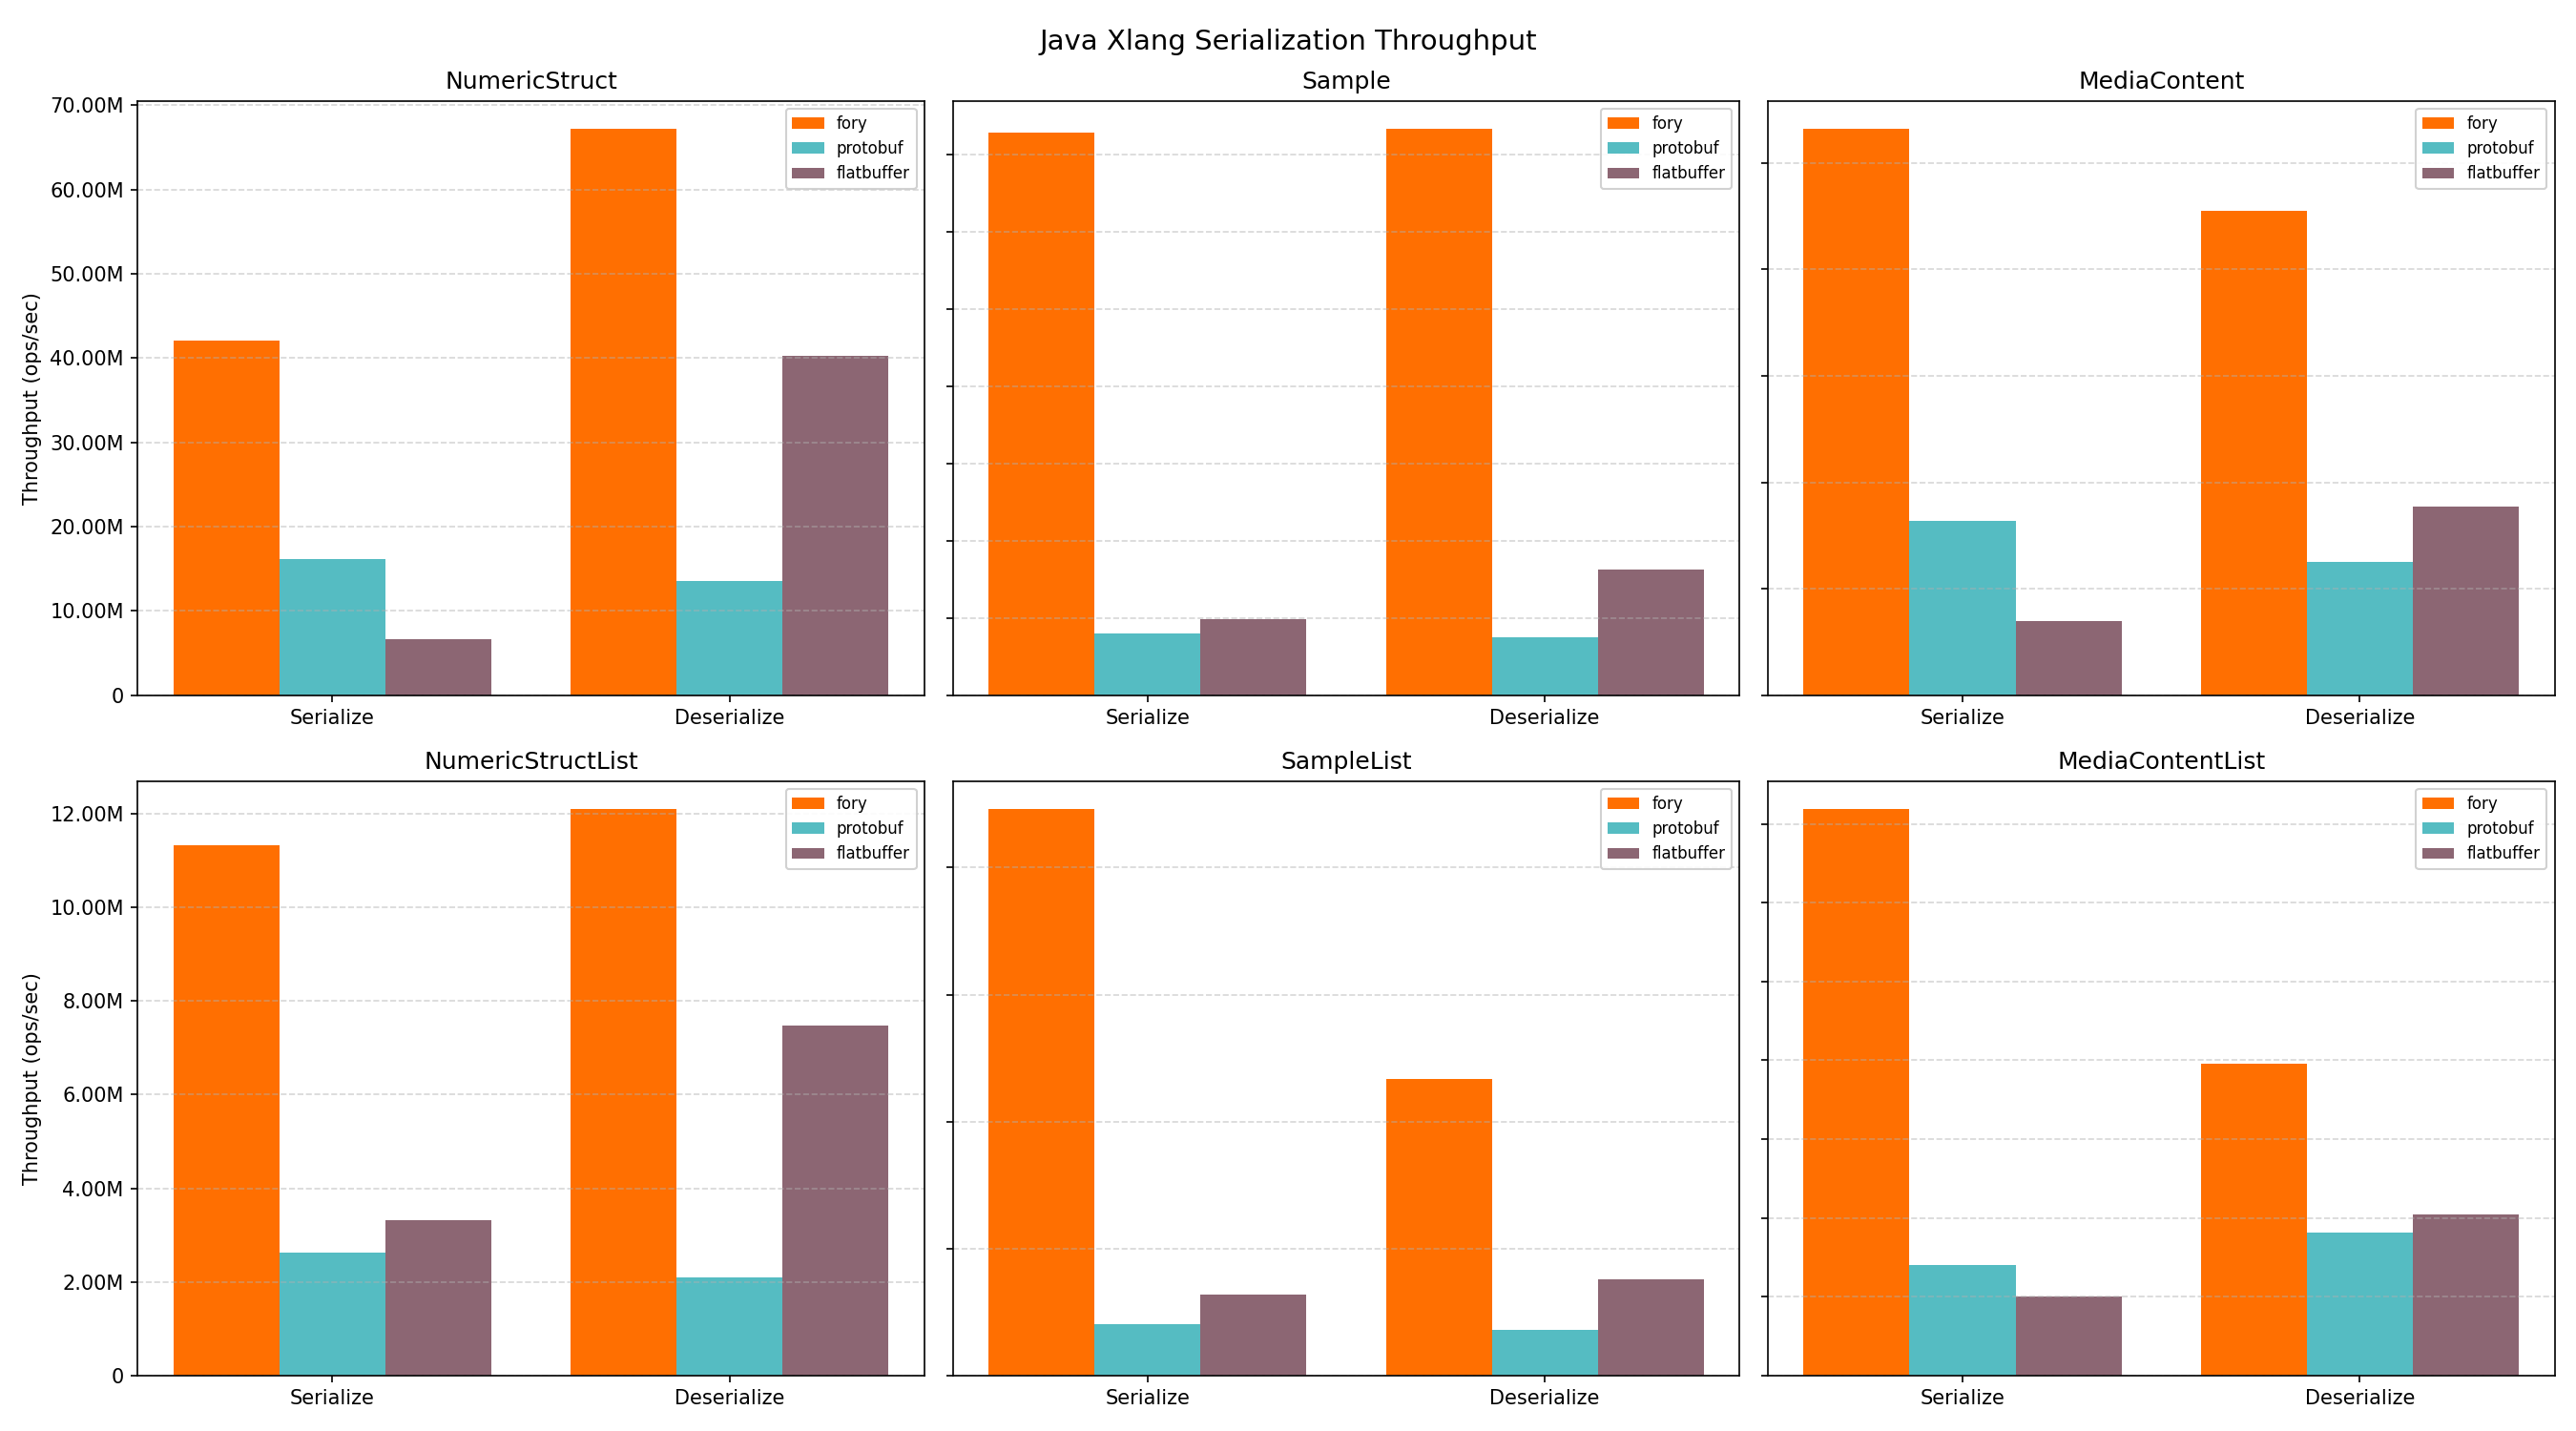
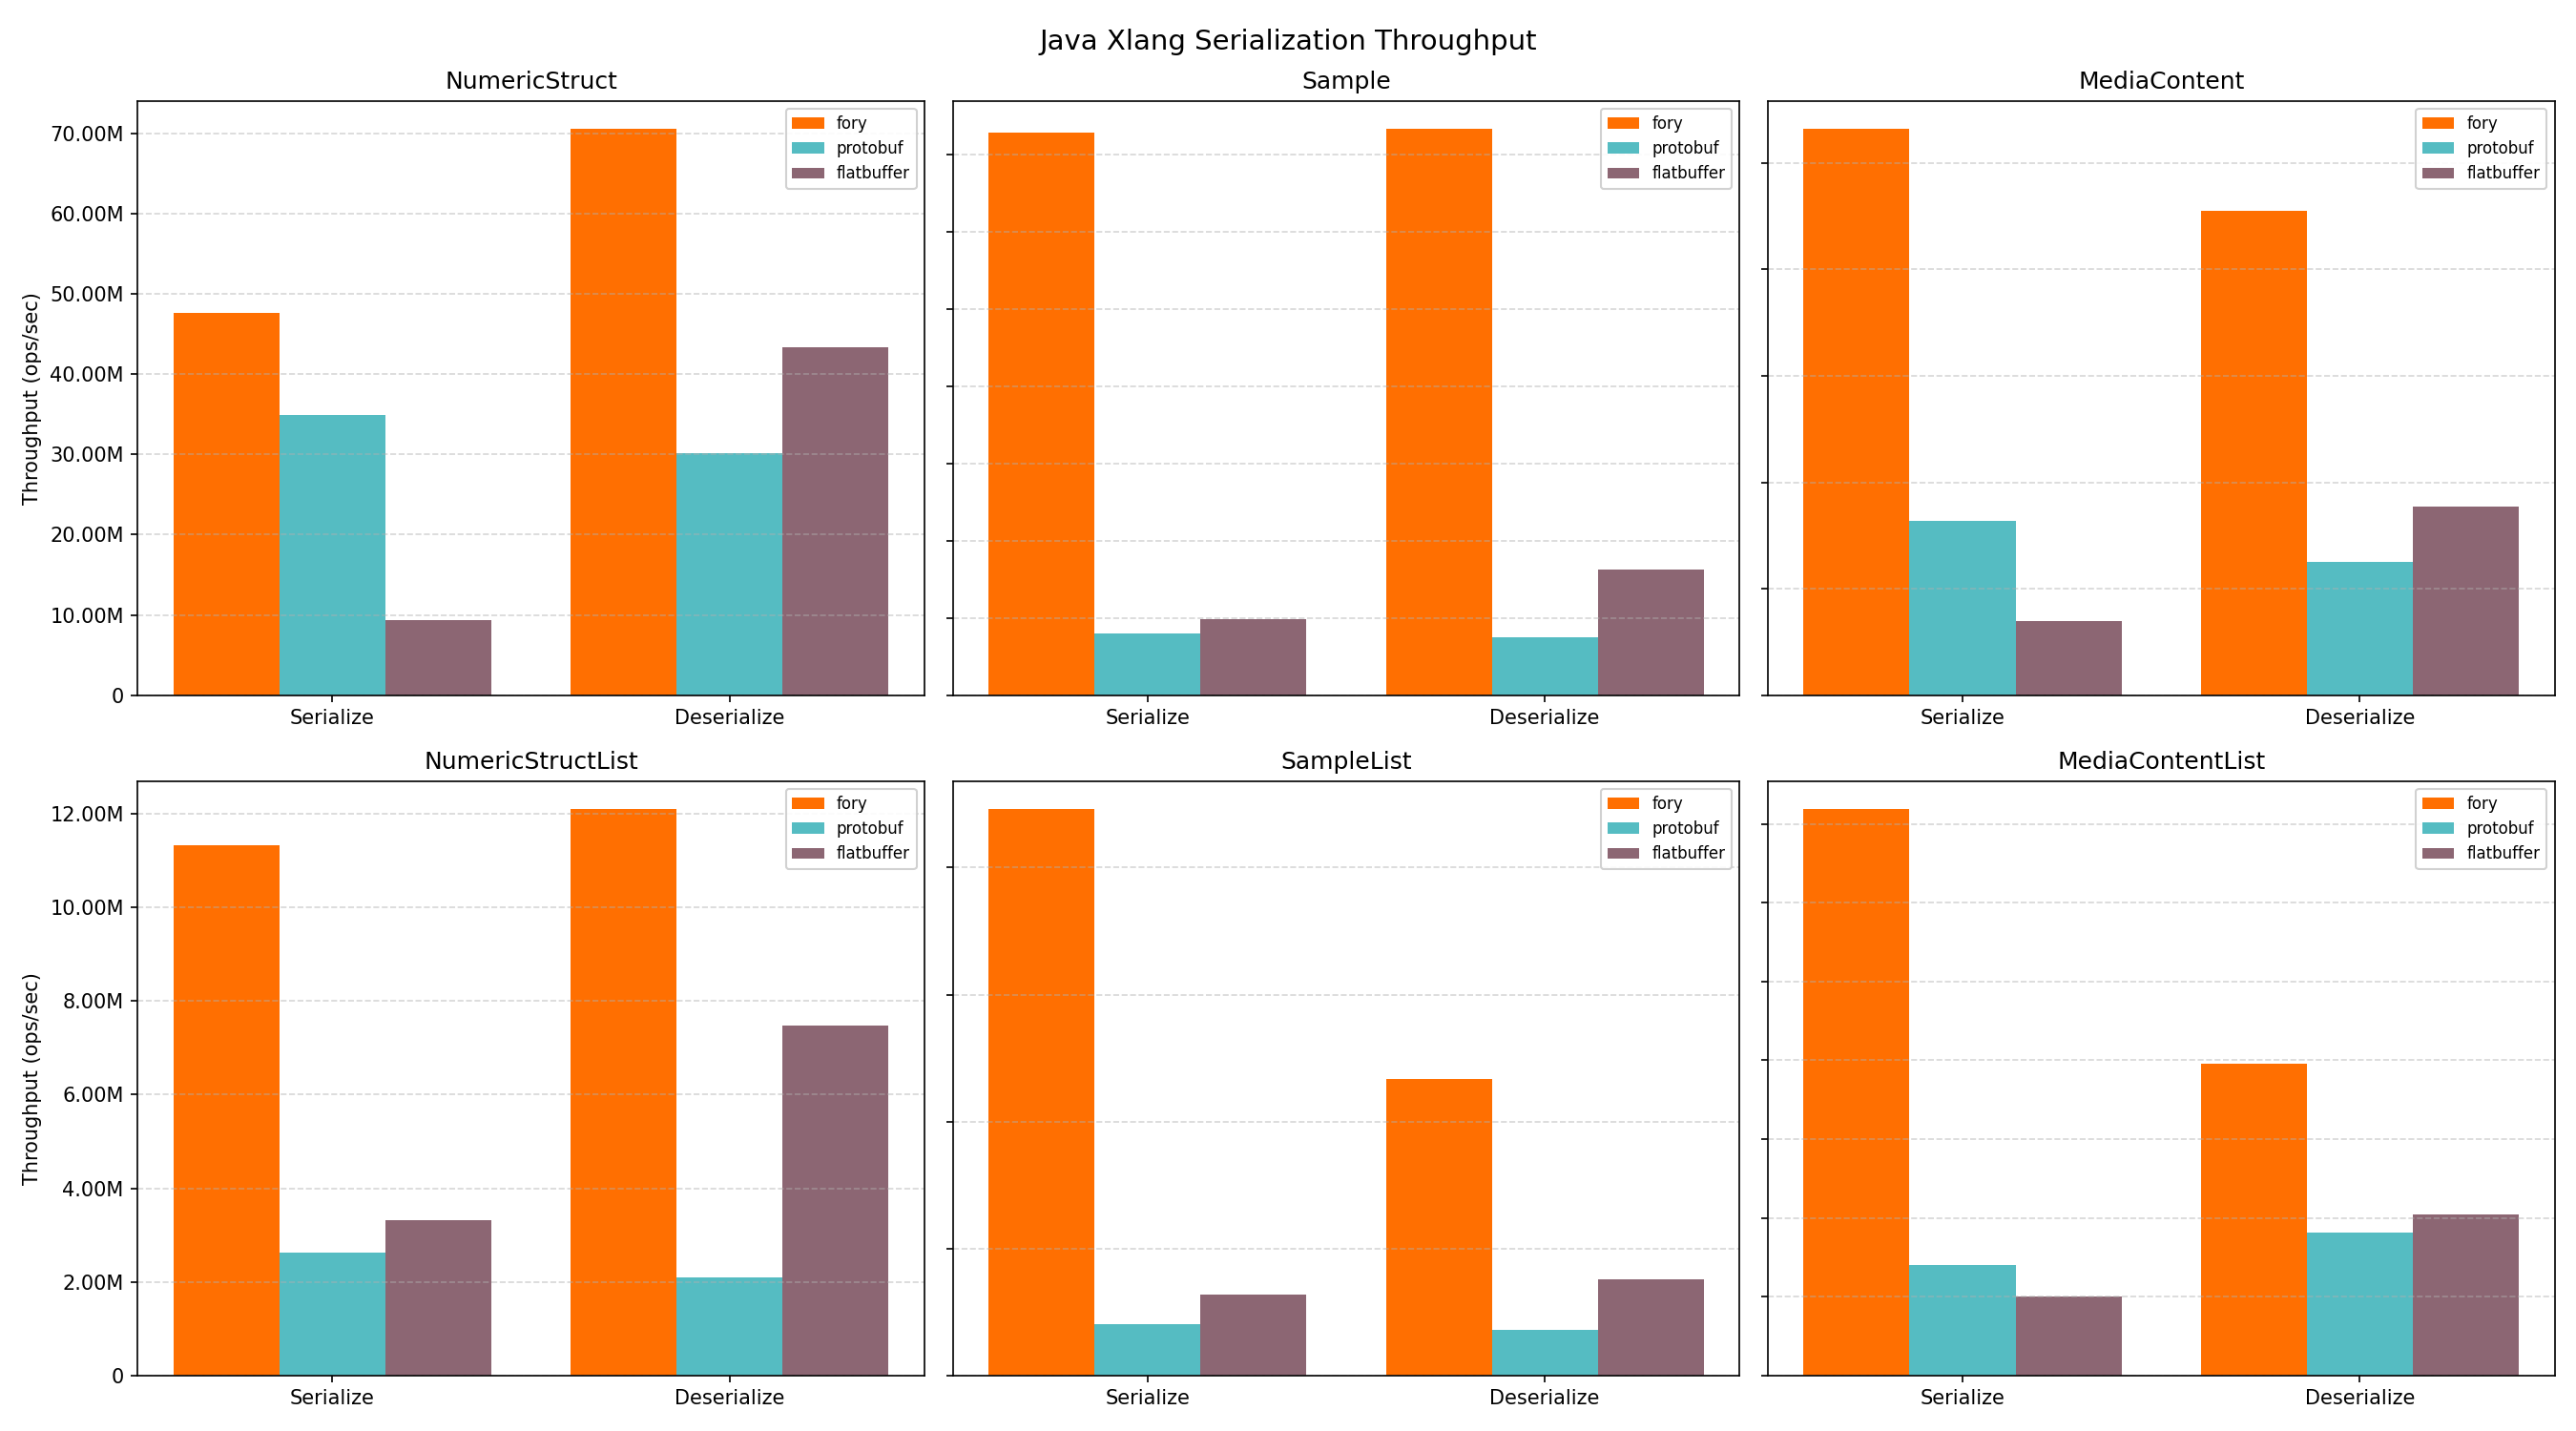
bench: use fixed protobuf numeric struct

diff --git a/benchmarks/python/benchmark.py b/benchmarks/python/benchmark.py
@@ -224,9 +224,15 @@ def create_sample() -> Sample:
         char_value_boxed=ord("$"),
         boolean_value_boxed=False,
         int_array=int32_array([-1234, -123, -12, -1, 0, 1, 12, 123, 1234]),
-        long_array=int64_array([-123400, -12300, -1200, -100, 0, 100, 1200, 12300, 123400]),
-        float_array=float32_array([-12.34, -12.3, -12.0, -1.0, 0.0, 1.0, 12.0, 12.3, 12.34]),
-        double_array=float64_array([-1.234, -1.23, -12.0, -1.0, 0.0, 1.0, 12.0, 1.23, 1.234]),
+        long_array=int64_array(
+            [-123400, -12300, -1200, -100, 0, 100, 1200, 12300, 123400]
+        ),
+        float_array=float32_array(
+            [-12.34, -12.3, -12.0, -1.0, 0.0, 1.0, 12.0, 12.3, 12.34]
+        ),
+        double_array=float64_array(
+            [-1.234, -1.23, -12.0, -1.0, 0.0, 1.0, 12.0, 1.23, 1.234]
+        ),
         short_array=int32_array([-1234, -123, -12, -1, 0, 1, 12, 123, 1234]),
         char_array=int32_array([ord(c) for c in "asdfASDF"]),
         boolean_array=bool_array([True, False, False, True]),
@@ -276,7 +282,9 @@ def create_media_content() -> MediaContent:
 
 
 def create_numeric_struct_list() -> NumericStructList:
-    return NumericStructList(struct_list=[create_numeric_struct() for _ in range(LIST_SIZE)])
+    return NumericStructList(
+        struct_list=[create_numeric_struct() for _ in range(LIST_SIZE)]
+    )
 
 
 def create_sample_list() -> SampleList:
@@ -284,7 +292,9 @@ def create_sample_list() -> SampleList:
 
 
 def create_media_content_list() -> MediaContentList:
-    return MediaContentList(media_content_list=[create_media_content() for _ in range(LIST_SIZE)])
+    return MediaContentList(
+        media_content_list=[create_media_content() for _ in range(LIST_SIZE)]
+    )
 
 
 def create_benchmark_data() -> Dict[str, Any]:
@@ -301,7 +311,9 @@ def create_benchmark_data() -> Dict[str, Any]:
 def load_bench_pb2(proto_dir: Path):
     bench_pb2_path = proto_dir / "bench_pb2.py"
     if not bench_pb2_path.exists():
-        raise FileNotFoundError(f"{bench_pb2_path} does not exist. Run benchmarks/python/run.sh first to generate protobuf bindings.")
+        raise FileNotFoundError(
+            f"{bench_pb2_path} does not exist. Run benchmarks/python/run.sh first to generate protobuf bindings."
+        )
     proto_dir_abs = str(proto_dir.resolve())
     if proto_dir_abs not in sys.path:
         sys.path.insert(0, proto_dir_abs)
@@ -479,7 +491,9 @@ def to_pb_numeric_struct_list(bench_pb2, obj: NumericStructList):
 
 
 def from_pb_numeric_struct_list(pb_obj) -> NumericStructList:
-    return NumericStructList(struct_list=[from_pb_struct(item) for item in pb_obj.struct_list])
+    return NumericStructList(
+        struct_list=[from_pb_struct(item) for item in pb_obj.struct_list]
+    )
 
 
 def to_pb_samplelist(bench_pb2, obj: SampleList):
@@ -501,14 +515,22 @@ def to_pb_mediacontentlist(bench_pb2, obj: MediaContentList):
 
 
 def from_pb_mediacontentlist(pb_obj) -> MediaContentList:
-    return MediaContentList(media_content_list=[from_pb_mediacontent(item) for item in pb_obj.media_content_list])
+    return MediaContentList(
+        media_content_list=[
+            from_pb_mediacontent(item) for item in pb_obj.media_content_list
+        ]
+    )
 
 
 PROTO_CONVERTERS = {
     "struct": (to_pb_struct, from_pb_struct, "NumericStruct"),
     "sample": (to_pb_sample, from_pb_sample, "Sample"),
     "mediacontent": (to_pb_mediacontent, from_pb_mediacontent, "MediaContent"),
-    "structlist": (to_pb_numeric_struct_list, from_pb_numeric_struct_list, "NumericStructList"),
+    "structlist": (
+        to_pb_numeric_struct_list,
+        from_pb_numeric_struct_list,
+        "NumericStructList",
+    ),
     "samplelist": (to_pb_samplelist, from_pb_samplelist, "SampleList"),
     "mediacontentlist": (
         to_pb_mediacontentlist,
@@ -618,7 +640,9 @@ def build_case(
     if serializer == "pickle":
         if operation == "serialize":
             return pickle_serialize, (obj,)
-        return pickle_deserialize, (pickle.dumps(obj, protocol=pickle.HIGHEST_PROTOCOL),)
+        return pickle_deserialize, (
+            pickle.dumps(obj, protocol=pickle.HIGHEST_PROTOCOL),
+        )
 
     if serializer == "protobuf":
         if operation == "serialize":
@@ -643,7 +667,9 @@ def calculate_serialized_sizes(
         datatype_sizes: Dict[str, int] = {}
 
         datatype_sizes["fory"] = len(fory.serialize(obj))
-        datatype_sizes["pickle"] = len(pickle.dumps(obj, protocol=pickle.HIGHEST_PROTOCOL))
+        datatype_sizes["pickle"] = len(
+            pickle.dumps(obj, protocol=pickle.HIGHEST_PROTOCOL)
+        )
 
         to_pb, _, _ = PROTO_CONVERTERS[datatype]
         datatype_sizes["protobuf"] = len(to_pb(bench_pb2, obj).SerializeToString())
@@ -658,7 +684,9 @@ def parse_csv_list(value: str, allowed: Iterable[str], default: List[str]) -> Li
     selected = [item.strip().lower() for item in value.split(",") if item.strip()]
     invalid = [item for item in selected if item not in allowed]
     if invalid:
-        raise ValueError(f"Invalid values: {', '.join(invalid)}. Allowed: {', '.join(sorted(allowed))}")
+        raise ValueError(
+            f"Invalid values: {', '.join(invalid)}. Allowed: {', '.join(sorted(allowed))}"
+        )
     ordered = [item for item in default if item in selected]
     return ordered
 
@@ -676,7 +704,9 @@ def benchmark_number(base_number: int, datatype: str) -> int:
 
 
 def parse_args() -> argparse.Namespace:
-    parser = argparse.ArgumentParser(description="Comprehensive Fory/Pickle/Protobuf benchmark for Python")
+    parser = argparse.ArgumentParser(
+        description="Comprehensive Fory/Pickle/Protobuf benchmark for Python"
+    )
     parser.add_argument(
         "--operation",
         default="all",
@@ -737,14 +767,22 @@ def main() -> int:
     bench_pb2 = load_bench_pb2(proto_dir)
 
     selected_datatypes = parse_csv_list(args.data, DATA_TYPE_ORDER, DATA_TYPE_ORDER)
-    selected_serializers = parse_csv_list(args.serializer, SERIALIZER_ORDER, SERIALIZER_ORDER)
-    selected_operations = OPERATION_ORDER if args.operation == "all" else [args.operation]
+    selected_serializers = parse_csv_list(
+        args.serializer, SERIALIZER_ORDER, SERIALIZER_ORDER
+    )
+    selected_operations = (
+        OPERATION_ORDER if args.operation == "all" else [args.operation]
+    )
 
     benchmark_data = create_benchmark_data()
     fory = build_fory()
 
-    print(f"Benchmarking {len(selected_datatypes)} data type(s), {len(selected_serializers)} serializer(s), {len(selected_operations)} operation(s)")
-    print(f"Warmup={args.warmup}, Iterations={args.iterations}, Repeat={args.repeat}, Number={args.number}")
+    print(
+        f"Benchmarking {len(selected_datatypes)} data type(s), {len(selected_serializers)} serializer(s), {len(selected_operations)} operation(s)"
+    )
+    print(
+        f"Warmup={args.warmup}, Iterations={args.iterations}, Repeat={args.repeat}, Number={args.number}"
+    )
     print("=" * 96)
 
     results = []

diff --git a/benchmarks/java/src/main/java/org/apache/fory/benchmark/XlangBenchmark.java b/benchmarks/java/src/main/java/org/apache/fory/benchmark/XlangBenchmark.java
@@ -127,7 +127,7 @@ public class XlangBenchmark {
       forySampleListBytes = fory.serialize(sampleList);
       foryMediaContentListBytes = fory.serialize(mediaContentList);
 
-      protobufNumericStructBytes = toProto(numericStruct).toByteArray();
+      protobufNumericStructBytes = toFixedProto(numericStruct).toByteArray();
       protobufSampleBytes = toProto(sample).toByteArray();
       protobufMediaContentBytes = toProto(mediaContent).toByteArray();
       protobufNumericStructListBytes = toProto(numericStructList).toByteArray();
@@ -183,7 +183,7 @@ public class XlangBenchmark {
 
   @Benchmark
   public Object BM_Protobuf_NumericStruct_Serialize(XlangState state) {
-    return toProto(state.numericStruct).toByteArray();
+    return toFixedProto(state.numericStruct).toByteArray();
   }
 
   @Benchmark
@@ -481,6 +481,23 @@ public class XlangBenchmark {
         .build();
   }
 
+  private static ProtoMessage.FixedNumericStruct toFixedProto(NumericStruct struct) {
+    return ProtoMessage.FixedNumericStruct.newBuilder()
+        .setF1(struct.f1)
+        .setF2(struct.f2)
+        .setF3(struct.f3)
+        .setF4(struct.f4)
+        .setF5(struct.f5)
+        .setF6(struct.f6)
+        .setF7(struct.f7)
+        .setF8(struct.f8)
+        .setF9(struct.f9)
+        .setF10(struct.f10)
+        .setF11(struct.f11)
+        .setF12(struct.f12)
+        .build();
+  }
+
   private static ProtoMessage.Sample toProto(Sample sample) {
     ProtoMessage.Sample.Builder builder = ProtoMessage.Sample.newBuilder();
     builder.setIntValue(sample.int_value);
@@ -584,7 +601,7 @@ public class XlangBenchmark {
 
   private static NumericStruct fromProtoStruct(byte[] bytes) {
     try {
-      return fromProto(ProtoMessage.NumericStruct.parseFrom(bytes));
+      return fromProto(ProtoMessage.FixedNumericStruct.parseFrom(bytes));
     } catch (InvalidProtocolBufferException e) {
       throw new IllegalStateException(e);
     }
@@ -631,6 +648,23 @@ public class XlangBenchmark {
   }
 
   private static NumericStruct fromProto(ProtoMessage.NumericStruct proto) {
+    NumericStruct struct = new NumericStruct();
+    struct.f1 = proto.getF1();
+    struct.f2 = proto.getF2();
+    struct.f3 = proto.getF3();
+    struct.f4 = proto.getF4();
+    struct.f5 = proto.getF5();
+    struct.f6 = proto.getF6();
+    struct.f7 = proto.getF7();
+    struct.f8 = proto.getF8();
+    struct.f9 = proto.getF9();
+    struct.f10 = proto.getF10();
+    struct.f11 = proto.getF11();
+    struct.f12 = proto.getF12();
+    return struct;
+  }
+
+  private static NumericStruct fromProto(ProtoMessage.FixedNumericStruct proto) {
     NumericStruct struct = new NumericStruct();
     struct.f1 = proto.getF1();
     struct.f2 = proto.getF2();

diff --git a/benchmarks/python/benchmark_report.py b/benchmarks/python/benchmark_report.py
@@ -342,9 +342,7 @@ def generate_markdown_report(
         f"{SERIALIZER_LABELS.get(lib, lib)} (ns)" for lib in SERIALIZER_ORDER
     ]
     md.append(
-        "| Datatype | Operation | "
-        + " | ".join(timing_headers)
-        + " | Fastest |\n"
+        "| Datatype | Operation | " + " | ".join(timing_headers) + " | Fastest |\n"
     )
     md.append(
         "|----------|-----------|"
@@ -375,9 +373,7 @@ def generate_markdown_report(
         f"{SERIALIZER_LABELS.get(lib, lib)} TPS" for lib in SERIALIZER_ORDER
     ]
     md.append(
-        "| Datatype | Operation | "
-        + " | ".join(throughput_headers)
-        + " | Fastest |\n"
+        "| Datatype | Operation | " + " | ".join(throughput_headers) + " | Fastest |\n"
     )
     md.append(
         "|----------|-----------|"